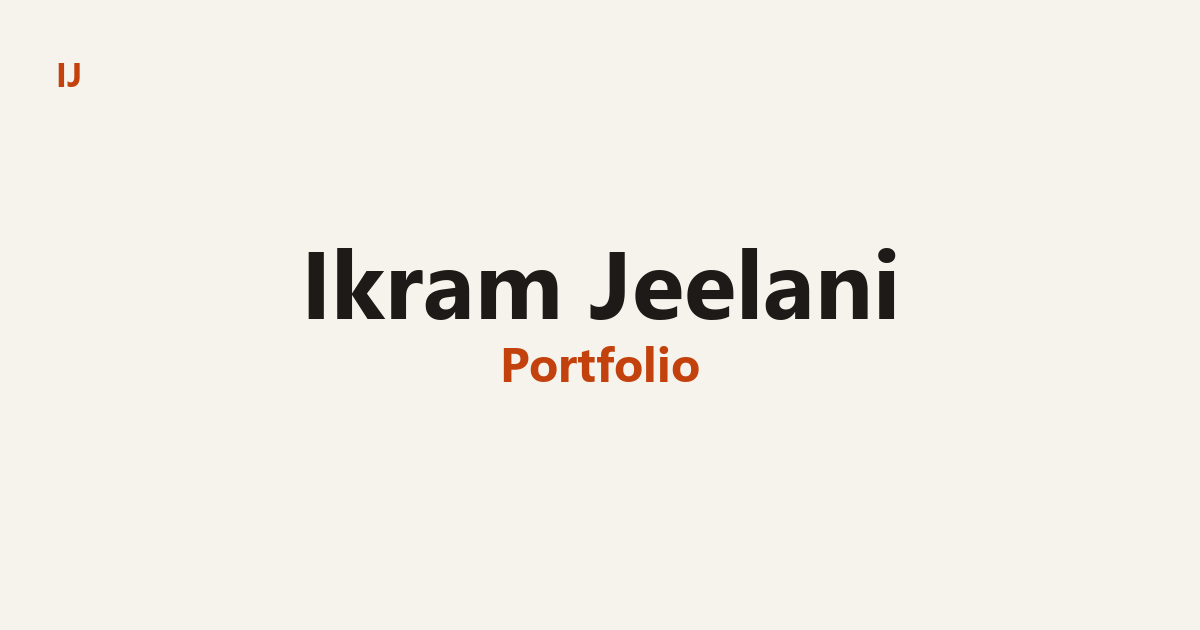
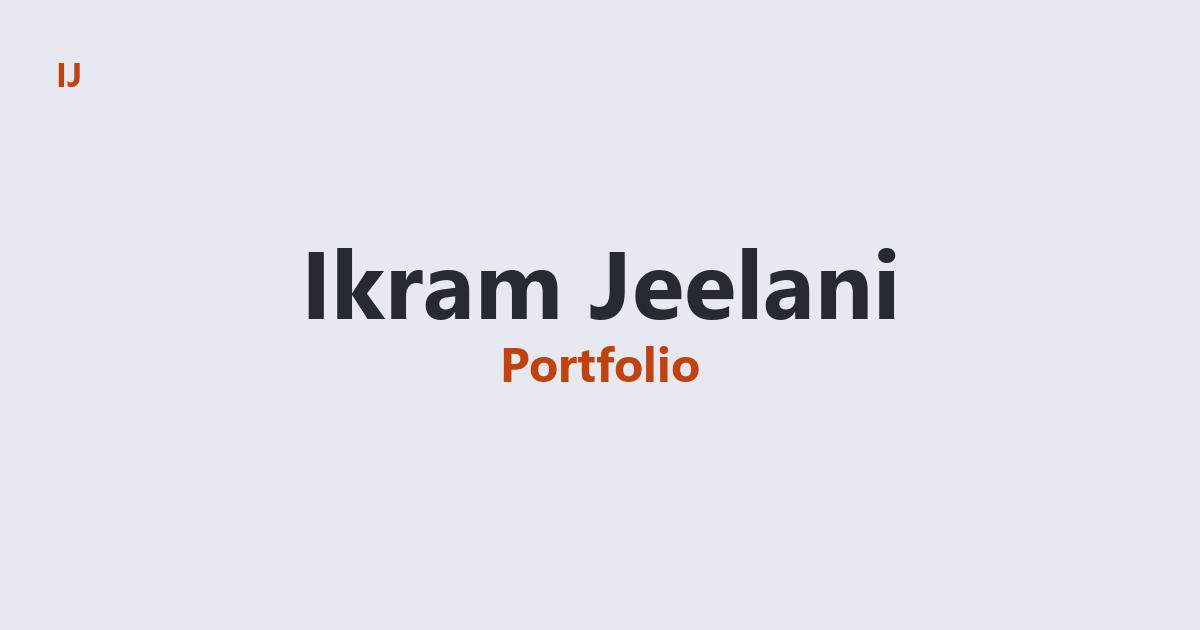
Update social share preview images for the new neumorphic palette
The OG-image generator's bg/text colors were a hardcoded duplicate of
styles.css' tokens (documented in its own header as a manual-sync
point) and hadn't been updated since the neumorphism redesign, so the
share cards were still rendering the old cream/near-black scheme.
Fixed to match the current tokens and regenerated both images.

Also carries forward a pending edit already in the working tree: the
Skills category renamed from "Software" back to "Programming".

Changed region(s): [[0.4933, 0.3921, 0.7708, 0.5127], [0.2467, 0.3921, 0.4625, 0.5127]]

diff --git a/data.js b/data.js
@@ -67,9 +67,7 @@ const SECTIONS = [
    use simple HTML like <strong>…</strong> if you want). Leave it "" to hide
    this block entirely. */
 const ABOUT =
-  "I got into engineering for the freedom of it; with enough knowledge, " +
-  "you're limited only by your imagination. That pull toward building complete " +
-  "systems led me to mechatronics, where I work across mechanical design, " +
+  "I work across mechanical design, " +
   "electronics, control systems, and software. I'm aiming to become a design " +
   "engineer in the field of robotics and automation. Outside of that: gaming, cricket, and good food.";
 
@@ -125,7 +123,7 @@ const SKILLS = [
     ],
   },
   {
-    category: "Software",
+    category: "Programming",
     items: ["Python", "MATLAB", "C", "C++", "Git/GitHub"],
   },
   {

diff --git a/scripts/generate-og-images.py b/scripts/generate-og-images.py
@@ -42,8 +42,8 @@ if not FONT_BOLD.exists():
     sys.exit(f"generate-og-images: font not found at {FONT_BOLD}")
 
 THEMES = {
-    "dark": dict(bg="#14161c", text="#ece7de", accent="#f97316", out="assets/og-image-dark.png"),
-    "light": dict(bg="#f6f3ec", text="#1d1a17", accent="#c2410c", out="assets/og-image-light.png"),
+    "dark": dict(bg="#24262d", text="#ece7de", accent="#f97316", out="assets/og-image-dark.png"),
+    "light": dict(bg="#e6eaf0", text="#262a33", accent="#c2410c", out="assets/og-image-light.png"),
 }
 
 
